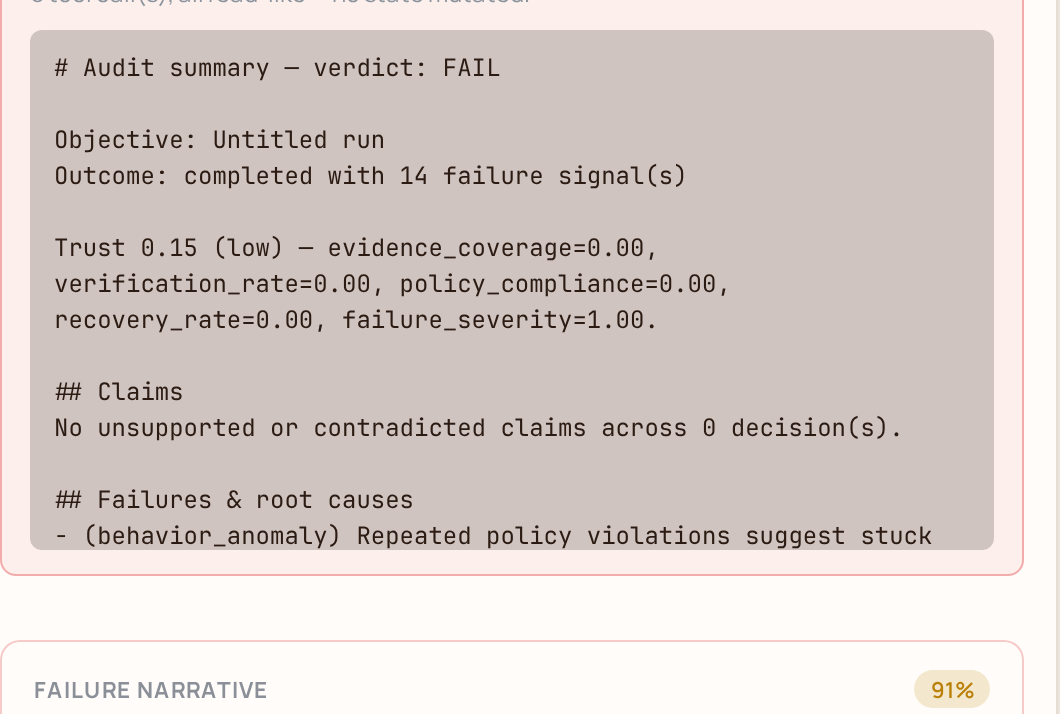
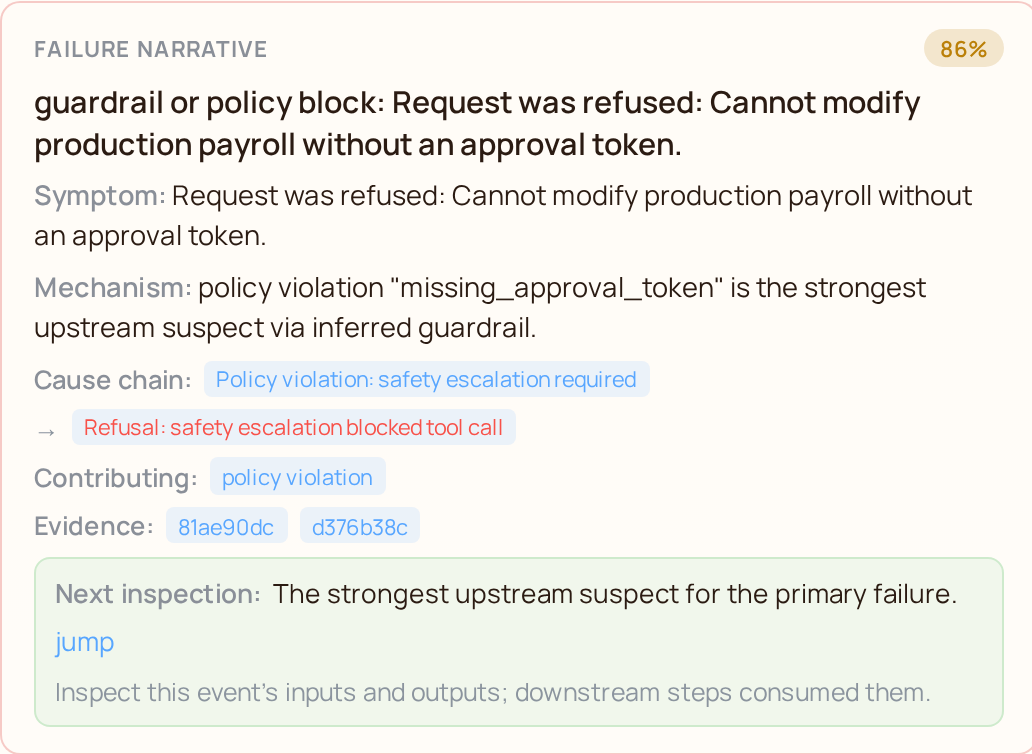
docs(assets): re-capture README screenshots from the live UI — complete, unclipped
Replaced both audit screenshots with fresh captures from a seeded
guarded-tool session (seed-safety-escalation) rendered in a real
browser at 2x: the hero now shows the FAIL verdict card with the
do-not-act band, explainable trust line, stakes line, and the COMPLETE
failure narrative (the old capture clipped it mid-card, and carried 45%
top whitespace after cropping). The narrative screenshot now also shows
the v0.6.0 latent-conditions line; its README alt text updated to match.

diff --git a/README.md b/README.md
@@ -205,7 +205,7 @@ Peaky Peek's defining capability: every session produces an **audit report** tha
 - **Session completeness** — expected-vs-received event counts, sequence gaps, orphaned parents, truncation and redaction markers, and a single verdict (`GET /api/sessions/{id}/completeness`); the same findings feed the narrative's latent conditions.
 
 <p align="center">
-  <img src="./docs/assets/screenshot-failure-narrative.png" alt="Failure narrative block: symptom, mechanism with clickable cause chain, contributing factors, evidence chips, and the next inspection point with a jump action" width="820" />
+  <img src="./docs/assets/screenshot-failure-narrative.png" alt="Failure narrative block: symptom, mechanism with clickable cause chain, latent conditions, contributing factors, evidence chips, and the next inspection point with a jump action" width="820" />
 </p>
 
 Every row is clickable and jumps to the underlying event. The same report is available as JSON at `GET /api/sessions/{id}/audit`, **program slices** at `GET /api/sessions/{id}/slices?node_id=…&direction=backward|forward` and the **damage radius** at `GET /api/sessions/{id}/damage-radius` — the exact set of nodes the first bad decision fed, in this run. A fleet-level portfolio (`GET /api/audit/portfolio`) ranks sessions worst-trust-first. Deterministic only — no opaque "AI insights," every number is derivable from captured fields.
